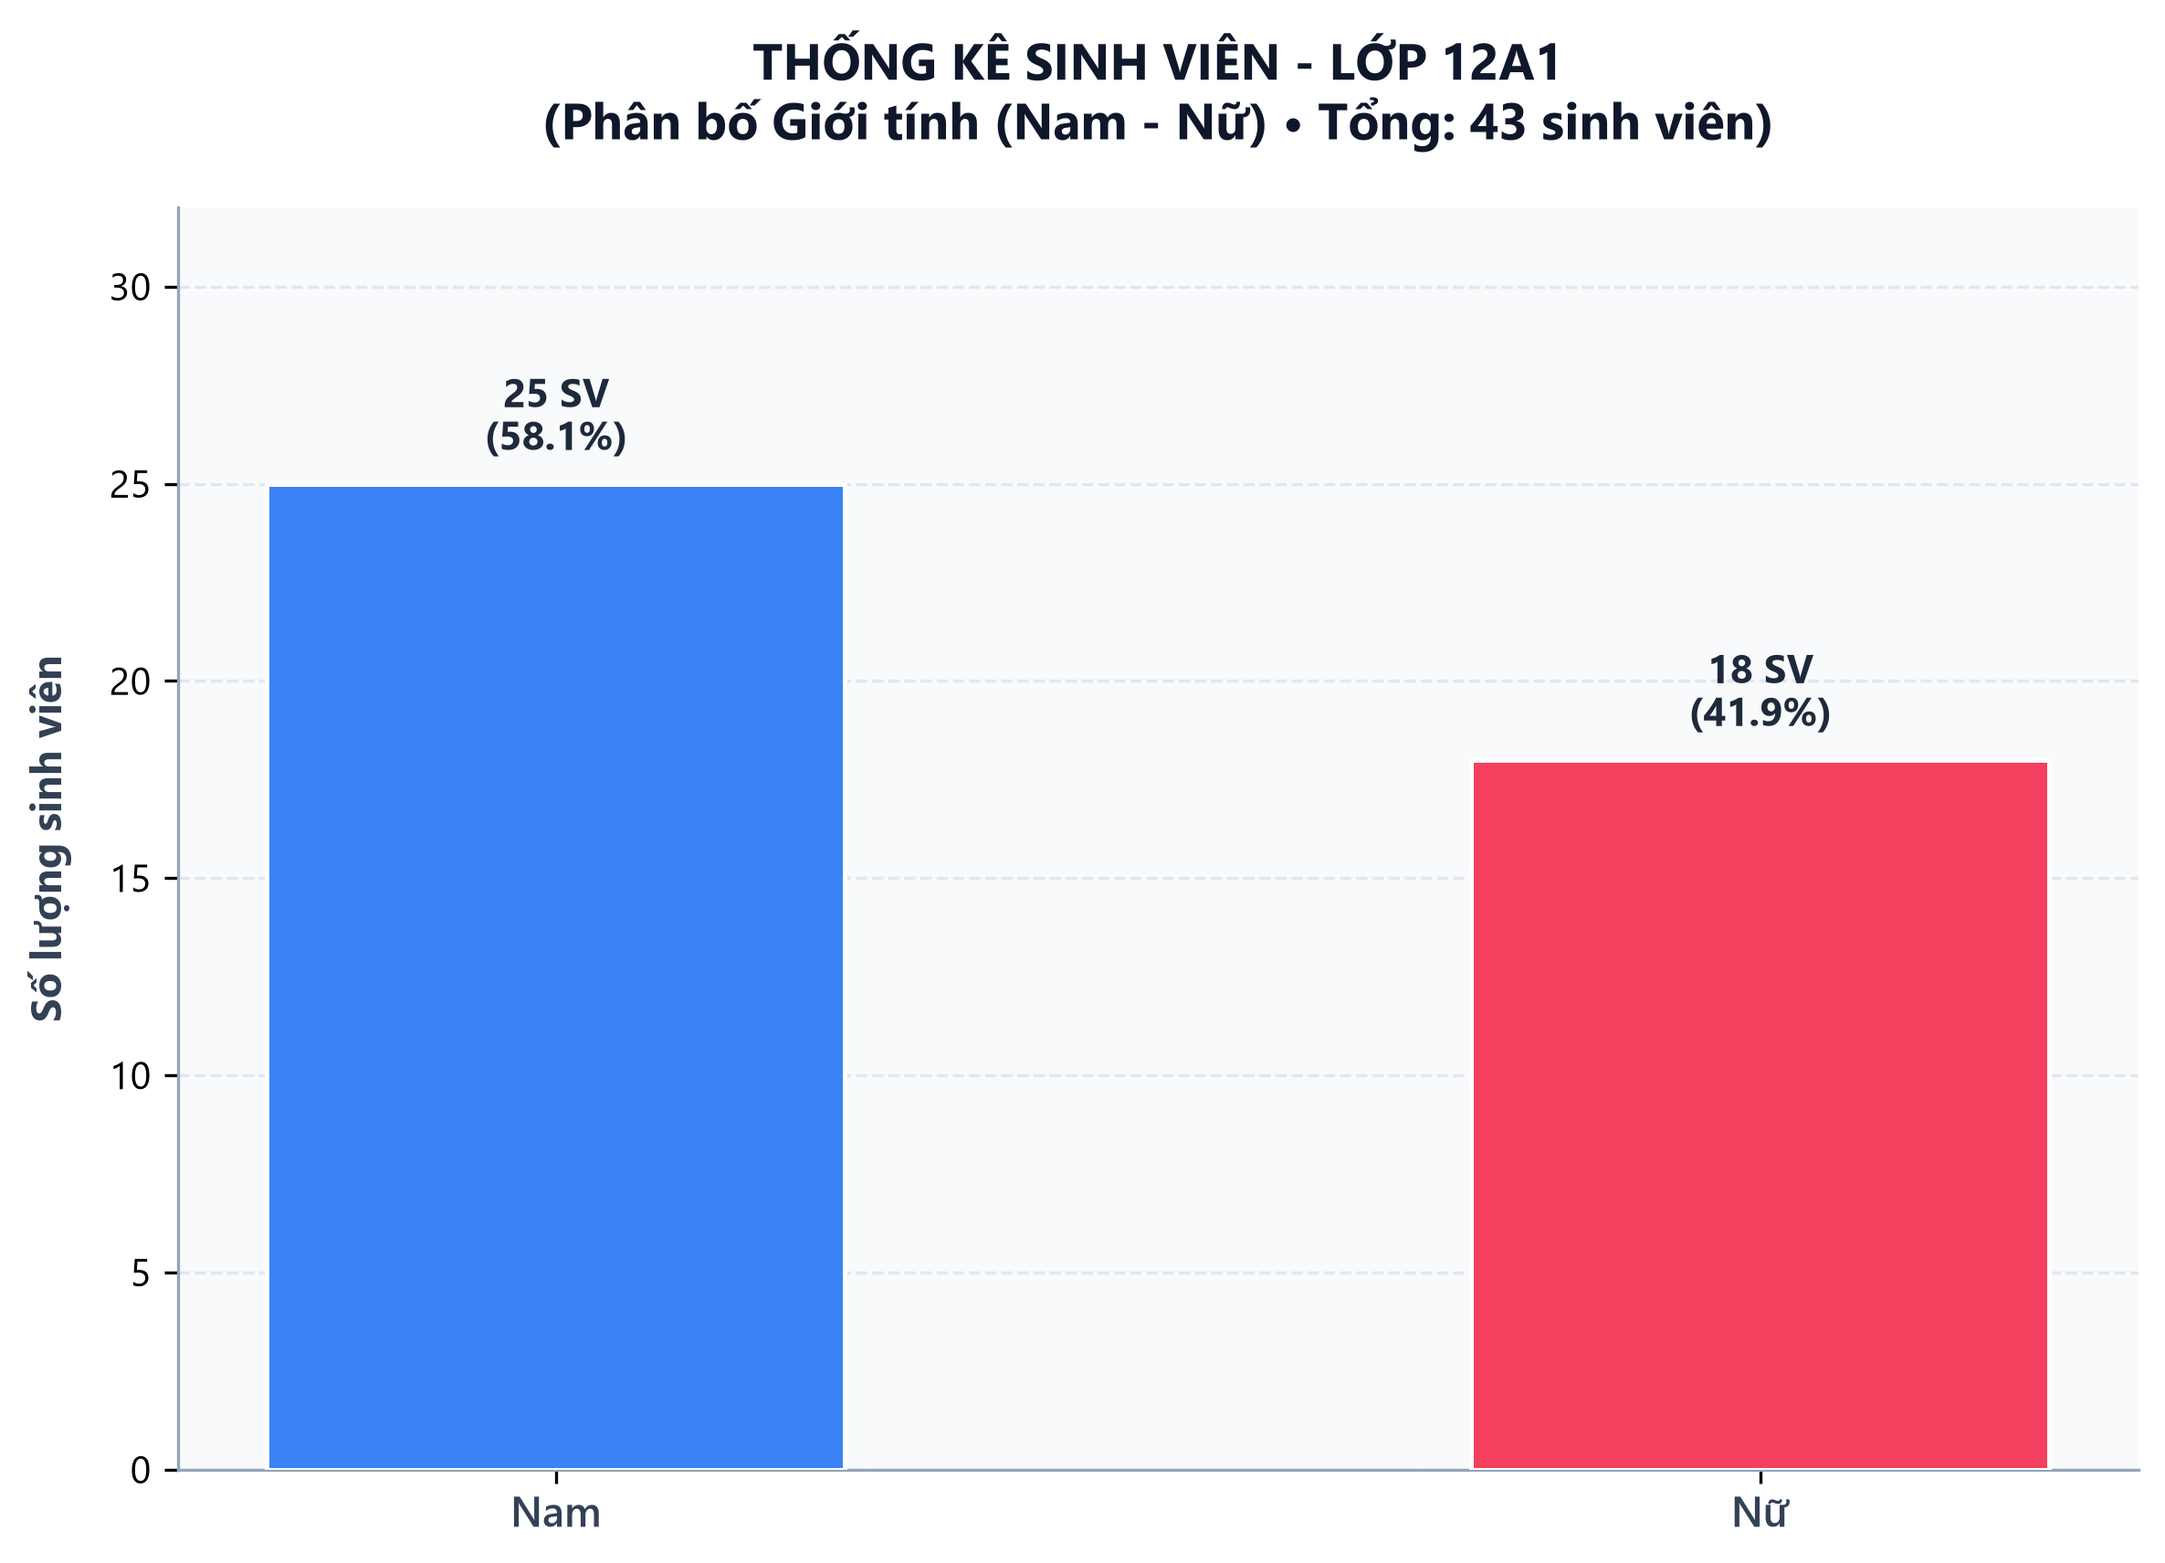
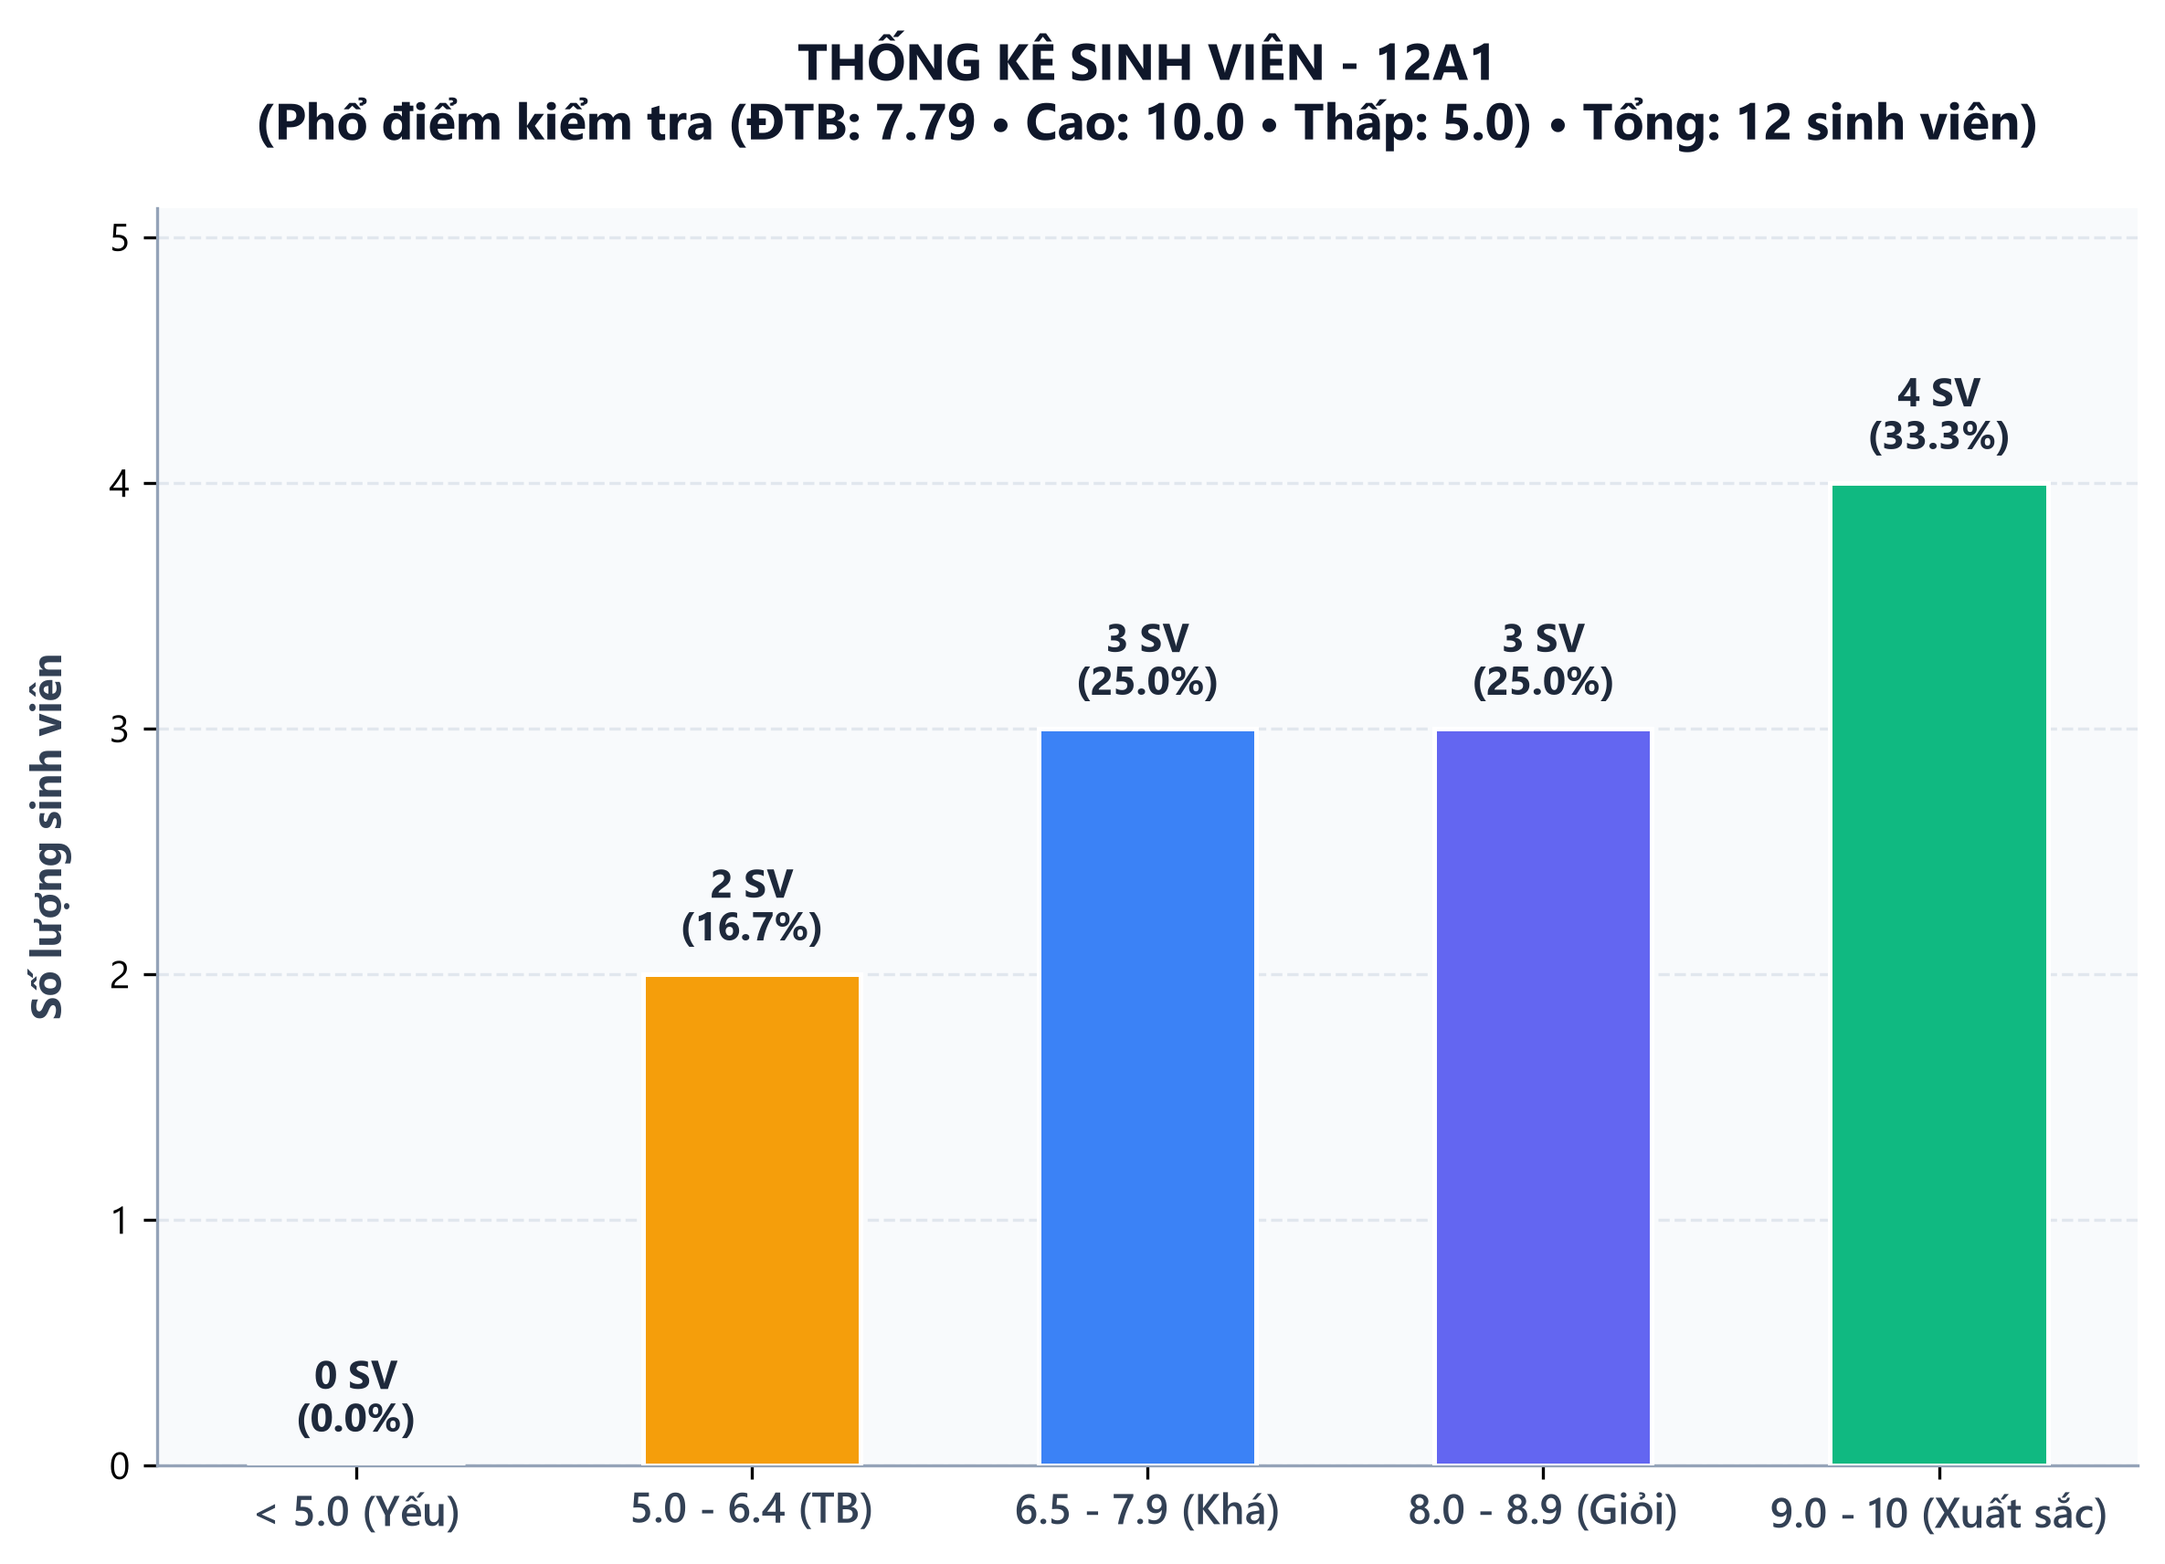
feat: Thêm tính năng đánh giá lớp học thông minh và sao chép báo cáo tóm tắt

diff --git a/templates/index.html b/templates/index.html
@@ -849,7 +849,14 @@
             </svg>
             Biểu Đồ Trực Quan & Phân Tích
           </h2>
-          <div style="display: flex; gap: 8px;">
+          <div style="display: flex; gap: 8px; flex-wrap: wrap;">
+            <button type="button" id="btnCopyReport" class="btn-action" onclick="saoChepBaoCao()" title="Sao chép toàn bộ báo cáo và nhận xét lớp học">
+              <svg width="15" height="15" viewBox="0 0 24 24" fill="none" stroke="currentColor" stroke-width="2.2" stroke-linecap="round" stroke-linejoin="round">
+                <rect x="9" y="9" width="13" height="13" rx="2" ry="2"></rect>
+                <path d="M5 15H4a2 2 0 0 1-2-2V4a2 2 0 0 1 2-2h9a2 2 0 0 1 2 2v1"></path>
+              </svg>
+              📋 Sao Chép Báo Cáo
+            </button>
             <a id="btnDownload" href="/download" download="bieu_do_sinh_vien.png" class="btn-action" title="Tải ảnh PNG độ phân giải 300 DPI">
               <svg width="15" height="15" viewBox="0 0 24 24" fill="none" stroke="currentColor" stroke-width="2.2" stroke-linecap="round" stroke-linejoin="round">
                 <path d="M21 15v4a2 2 0 0 1-2 2H5a2 2 0 0 1-2-2v-4"></path>
@@ -889,6 +896,24 @@
           </tbody>
         </table>
 
+        <!-- Smart Evaluation Card (New Feature) -->
+        <div id="evalCard" style="margin-top: 22px; background: rgba(0, 0, 0, 0.28); border: 1px solid var(--border-subtle); border-radius: var(--radius-md); padding: 18px 20px;">
+          <div style="display: flex; align-items: center; justify-content: space-between; margin-bottom: 12px; flex-wrap: wrap; gap: 8px;">
+            <div style="display: flex; align-items: center; gap: 10px;">
+              <span id="evalBadgeIcon" style="font-size: 1.25rem;">✨</span>
+              <span id="evalTitle" style="font-size: 0.95rem; font-weight: 700; color: #fff;">Đánh Giá Lớp Học Thông Minh</span>
+            </div>
+            <span id="evalStatusTag" class="field-tag" style="background: rgba(16, 185, 129, 0.18); color: #34d399; font-weight: 700; padding: 4px 10px; border-radius: 6px;">Xuất Sắc</span>
+          </div>
+          <div style="display: flex; align-items: baseline; gap: 10px; margin-bottom: 8px;">
+            <span id="evalMainMetric" style="font-size: 1.55rem; font-weight: 800; color: var(--indigo);">--</span>
+            <span id="evalMetricLabel" style="font-size: 0.8rem; color: var(--text-dim); font-weight: 600;">Chỉ số chính</span>
+          </div>
+          <p id="evalRemark" style="font-size: 0.86rem; color: #cbd5e1; line-height: 1.5; margin: 0; background: rgba(255, 255, 255, 0.04); padding: 11px 14px; border-radius: var(--radius-sm); border-left: 3px solid var(--indigo);">
+            Đang tải dữ liệu đánh giá...
+          </p>
+        </div>
+
       </section>
 
     </div>
@@ -911,6 +936,7 @@
   <script>
     let currentMode = 'gender';
     let currentChartType = 'bar';
+    let lastReportData = null;
 
     let groupsData = [
       { name: 'Tổ 1', count: 11 },
@@ -923,7 +949,60 @@
       const toast = document.getElementById('toast');
       document.getElementById('toastMsg').textContent = msg;
       toast.classList.add('show');
-      setTimeout(() => toast.classList.remove('show'), 2600);
+      setTimeout(() => toast.classList.remove('show'), 2800);
+    }
+
+    function saoChepBaoCao() {
+      if (!lastReportData) {
+        showToast('Chưa có dữ liệu để sao chép!');
+        return;
+      }
+      const d = lastReportData;
+      const lines = [
+        `========================================`,
+        `📊 BÁO CÁO THỐNG KÊ SINH VIÊN - ${d.ten_lop.toUpperCase()}`,
+        `========================================`,
+        `• Tổng sĩ số lớp   : ${d.tong_sv} sinh viên`,
+        `• Phân loại        : ${d.evaluation ? d.evaluation.tieu_de : d.mode}`,
+        `----------------------------------------`,
+        `CHI TIẾT PHÂN BỔ:`
+      ];
+
+      d.items.forEach(it => {
+        lines.push(`  - ${it.label}: ${it.count} SV (${it.pct}%)`);
+      });
+
+      if (d.evaluation) {
+        lines.push(`----------------------------------------`);
+        lines.push(`ĐÁNH GIÁ SƯ PHẠM:`);
+        lines.push(`• Chỉ số chính     : ${d.evaluation.chi_so_chinh} (${d.evaluation.ten_chi_so})`);
+        lines.push(`• Nhận xét tự động : ${d.evaluation.nhan_xet}`);
+      }
+      lines.push(`----------------------------------------`);
+      lines.push(`(Báo cáo xuất từ Hệ thống Thống Kê Sinh Viên - Cổng 5175)`);
+
+      const content = lines.join('\n');
+      if (navigator.clipboard && navigator.clipboard.writeText) {
+        navigator.clipboard.writeText(content).then(() => {
+          showToast('📋 Đã sao chép báo cáo vào bộ nhớ tạm!');
+        }).catch(() => {
+          fallbackCopy(content);
+        });
+      } else {
+        fallbackCopy(content);
+      }
+    }
+
+    function fallbackCopy(text) {
+      const ta = document.createElement('textarea');
+      ta.value = text;
+      ta.style.position = 'fixed';
+      ta.style.opacity = '0';
+      document.body.appendChild(ta);
+      ta.select();
+      document.execCommand('copy');
+      document.body.removeChild(ta);
+      showToast('📋 Đã sao chép báo cáo vào bộ nhớ tạm!');
     }
 
     function tangGiam(id, delta) {
@@ -1108,6 +1187,38 @@
           </tr>
         `;
         tbody.innerHTML = tableHTML;
+
+        // Lưu dữ liệu báo cáo mới nhất để phục vụ sao chép
+        lastReportData = data;
+
+        // Cập nhật thẻ Đánh Giá Thông Minh
+        if (data.evaluation) {
+          document.getElementById('evalTitle').textContent = data.evaluation.tieu_de || 'Đánh Giá Lớp Học';
+          document.getElementById('evalMainMetric').textContent = data.evaluation.chi_so_chinh || '';
+          document.getElementById('evalMetricLabel').textContent = data.evaluation.ten_chi_so || '';
+          document.getElementById('evalRemark').textContent = data.evaluation.nhan_xet || '';
+
+          const tag = document.getElementById('evalStatusTag');
+          const icon = document.getElementById('evalBadgeIcon');
+          const st = data.evaluation.trang_thai;
+
+          if (st === 'excellent') {
+            tag.style.background = 'rgba(16, 185, 129, 0.18)';
+            tag.style.color = '#34d399';
+            tag.textContent = '🌟 Xuất Sắc';
+            icon.textContent = '🌟';
+          } else if (st === 'good') {
+            tag.style.background = 'rgba(59, 130, 246, 0.18)';
+            tag.style.color = '#60a5fa';
+            tag.textContent = '👍 Tốt / Cân Bằng';
+            icon.textContent = '🎯';
+          } else {
+            tag.style.background = 'rgba(245, 158, 11, 0.18)';
+            tag.style.color = '#fbbf24';
+            tag.textContent = '⚡ Cần Lưu Ý';
+            icon.textContent = '💡';
+          }
+        }
 
       } catch (err) {
         console.error(err);

diff --git a/main.py b/main.py
@@ -261,15 +261,138 @@ def xu_ly_du_lieu(payload: Dict[str, Any]) -> Dict[str, Any]:
         luu_anh=True
     )
 
+    danh_gia = tinh_danh_gia_lop(che_do, items_stat, tong_sv, payload)
+
     return {
         'ten_lop': ten_lop,
         'mode': che_do,
         'chart_type': chart_type,
         'tong_sv': tong_sv,
         'items': items_stat,
+        'evaluation': danh_gia,
         'image_base64': img_b64,
         'saved_file': 'bieu_do_sinh_vien.png'
     }
+
+
+def tinh_danh_gia_lop(che_do: str, items: List[Dict[str, Any]], tong_sv: int, payload: Dict[str, Any]) -> Dict[str, Any]:
+    """
+    Tính năng mới: Đánh giá lớp học thông minh và đưa ra nhận xét sư phạm tự động.
+    """
+    if tong_sv == 0:
+        return {
+            'tieu_de': 'Đánh giá lớp học',
+            'chi_so_chinh': '0%',
+            'ten_chi_so': 'Chưa có sinh viên',
+            'trang_thai': 'warning',
+            'nhan_xet': 'Lớp học hiện chưa có dữ liệu sinh viên để đánh giá.'
+        }
+
+    if che_do == 'grade':
+        # Thống kê theo học lực: Xuất sắc, Giỏi, Khá, TB, Yếu
+        counts = {it['label']: it['count'] for it in items}
+        kha_gioi = counts.get('Xuất sắc', 0) + counts.get('Giỏi', 0) + counts.get('Khá', 0)
+        ty_le_dat = round((kha_gioi / tong_sv * 100), 1)
+        yeu = counts.get('Yếu', 0)
+
+        if ty_le_dat >= 80 and yeu == 0:
+            trang_thai = 'excellent'
+            nhan_xet = f"Chất lượng học tập xuất sắc! Có {ty_le_dat}% sinh viên đạt loại Khá - Giỏi trở lên, không có sinh viên yếu kém."
+        elif ty_le_dat >= 65:
+            trang_thai = 'good'
+            nhan_xet = f"Mặt bằng học lực tốt ({ty_le_dat}% Khá - Giỏi). Cần quan tâm thêm {counts.get('Trung bình', 0) + yeu} sinh viên mức TB/Yếu."
+        else:
+            trang_thai = 'warning'
+            nhan_xet = f"Tỷ lệ Khá - Giỏi đạt {ty_le_dat}%. Lớp cần tăng cường các buổi phụ đạo và hỗ trợ nhóm học tập."
+
+        return {
+            'tieu_de': 'Chất Lượng Học Lực',
+            'chi_so_chinh': f'{ty_le_dat}%',
+            'ten_chi_so': 'Tỷ lệ Khá - Giỏi trở lên',
+            'trang_thai': trang_thai,
+            'nhan_xet': nhan_xet
+        }
+
+    elif che_do == 'group':
+        counts = [it['count'] for it in items if it['count'] > 0]
+        avg_c = round(tong_sv / len(items), 1) if items else 0
+        if counts:
+            max_c = max(counts)
+            min_c = min(counts)
+            diff = max_c - min_c
+            if diff <= 2:
+                trang_thai = 'excellent'
+                nhan_xet = f"Phân bổ sĩ số giữa các tổ rất đồng đều (chênh lệch chỉ {diff} SV, TB ~{avg_c} SV/tổ)."
+            elif diff <= 5:
+                trang_thai = 'good'
+                nhan_xet = f"Sĩ số các tổ tương đối hợp lý (chênh lệch {diff} SV giữa tổ đông nhất và ít nhất)."
+            else:
+                trang_thai = 'warning'
+                nhan_xet = f"Chênh lệch sĩ số giữa các tổ khá lớn ({diff} SV). Nên cân đối lại số lượng để hoạt động nhóm hiệu quả hơn."
+        else:
+            trang_thai = 'warning'
+            nhan_xet = "Chưa có dữ liệu thành viên trong các tổ."
+
+        return {
+            'tieu_de': 'Độ Đồng Đều Các Tổ',
+            'chi_so_chinh': f'{len(items)} Tổ',
+            'ten_chi_so': f'TB ~{avg_c} SV/tổ',
+            'trang_thai': trang_thai,
+            'nhan_xet': nhan_xet
+        }
+
+    elif che_do == 'scores':
+        counts = {it['label']: it['count'] for it in items}
+        yeu = counts.get('< 5.0 (Yếu)', 0)
+        tren_tb = tong_sv - yeu
+        ty_le_pass = round((tren_tb / tong_sv * 100), 1)
+        xs_gioi = counts.get('9.0 - 10 (Xuất sắc)', 0) + counts.get('8.0 - 8.9 (Giỏi)', 0)
+        ty_le_xs_gioi = round((xs_gioi / tong_sv * 100), 1)
+
+        if ty_le_pass >= 90 and ty_le_xs_gioi >= 50:
+            trang_thai = 'excellent'
+            nhan_xet = f"Kết quả bài kiểm tra rất cao: {ty_le_pass}% đạt yêu cầu (≥ 5.0), trong đó {ty_le_xs_gioi}% đạt điểm Giỏi & Xuất sắc."
+        elif ty_le_pass >= 75:
+            trang_thai = 'good'
+            nhan_xet = f"Tỷ lệ bài thi đạt yêu cầu là {ty_le_pass}%. Còn {yeu} bài kiểm tra dưới trung bình cần ôn tập bổ sung kiến thức."
+        else:
+            trang_thai = 'warning'
+            nhan_xet = f"Tỷ lệ đạt chỉ {ty_le_pass}%, có {yeu} bài kiểm tra dưới 5.0. Đề xuất tổ chức kiểm tra lại hoặc chữa bài chi tiết."
+
+        return {
+            'tieu_de': 'Tỷ Lệ Đạt Điểm Kiểm Tra',
+            'chi_so_chinh': f'{ty_le_pass}%',
+            'ten_chi_so': 'Bài kiểm tra ≥ 5.0',
+            'trang_thai': trang_thai,
+            'nhan_xet': nhan_xet
+        }
+
+    else:
+        # Giới tính: Nam - Nữ
+        counts = {it['label']: it['count'] for it in items}
+        nam = counts.get('Nam', 0)
+        nu = counts.get('Nữ', 0)
+        diff_pct = abs(round((nam - nu) / tong_sv * 100, 1))
+
+        if diff_pct <= 15:
+            trang_thai = 'excellent'
+            nhan_xet = f"Tỷ lệ giới tính rất cân bằng ({nam} Nam / {nu} Nữ, chênh lệch chỉ {diff_pct}%)."
+        elif diff_pct <= 40:
+            trang_thai = 'good'
+            nhan_xet = f"Cơ cấu giới tính: {nam} Nam - {nu} Nữ (chênh lệch {diff_pct}%). Phù hợp cho các hoạt động phong trào và học tập."
+        else:
+            trang_thai = 'good'
+            nhom_dong = "Nam" if nam > nu else "Nữ"
+            nhan_xet = f"Lớp có cơ cấu thiên về sinh viên {nhom_dong} ({max(nam, nu)}/{tong_sv} SV, chiếm {max(round(nam/tong_sv*100,1), round(nu/tong_sv*100,1))}%)."
+
+        ti_le_str = f"{round(nam/tong_sv*100, 1)}% : {round(nu/tong_sv*100, 1)}%" if tong_sv > 0 else "0 : 0"
+        return {
+            'tieu_de': 'Cân Bằng Giới Tính',
+            'chi_so_chinh': ti_le_str,
+            'ten_chi_so': 'Tỷ lệ Nam : Nữ',
+            'trang_thai': trang_thai,
+            'nhan_xet': nhan_xet
+        }
 
 
 def nhap_so_nguyen(thong_bao: str, min_val: int = 0) -> int:
